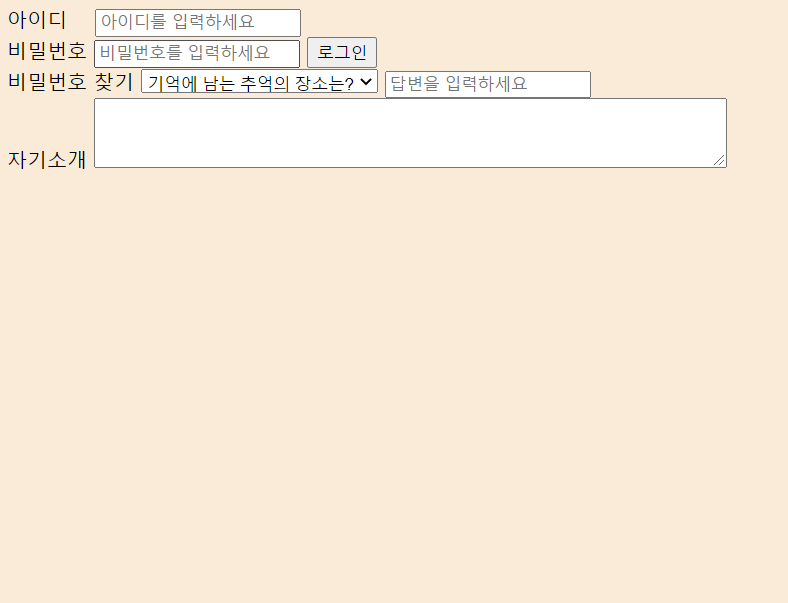
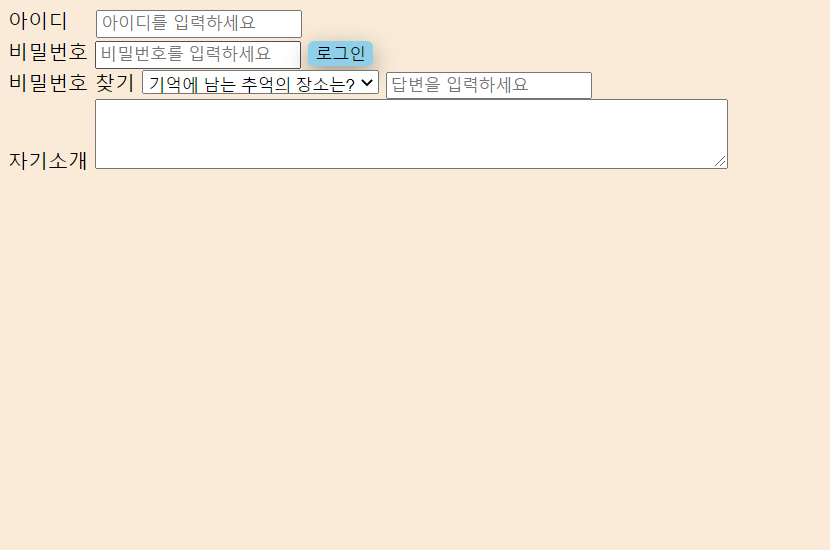
2

Changed region(s): [[0.0, 0.0, 0.9442, 0.3091]]

diff --git a/login.css b/login.css
@@ -6,3 +6,10 @@ body {
     width: 500px;
     height: 50px;
 }
+
+button {
+    background-color: skyblue;
+    border-radius: 5px;
+    border: None;
+    box-shadow: 0 8px 16px 0 rgba(0,0,0,0.2), 0 6px 20px 0 rgba(0,0,0,0.19);
+}
